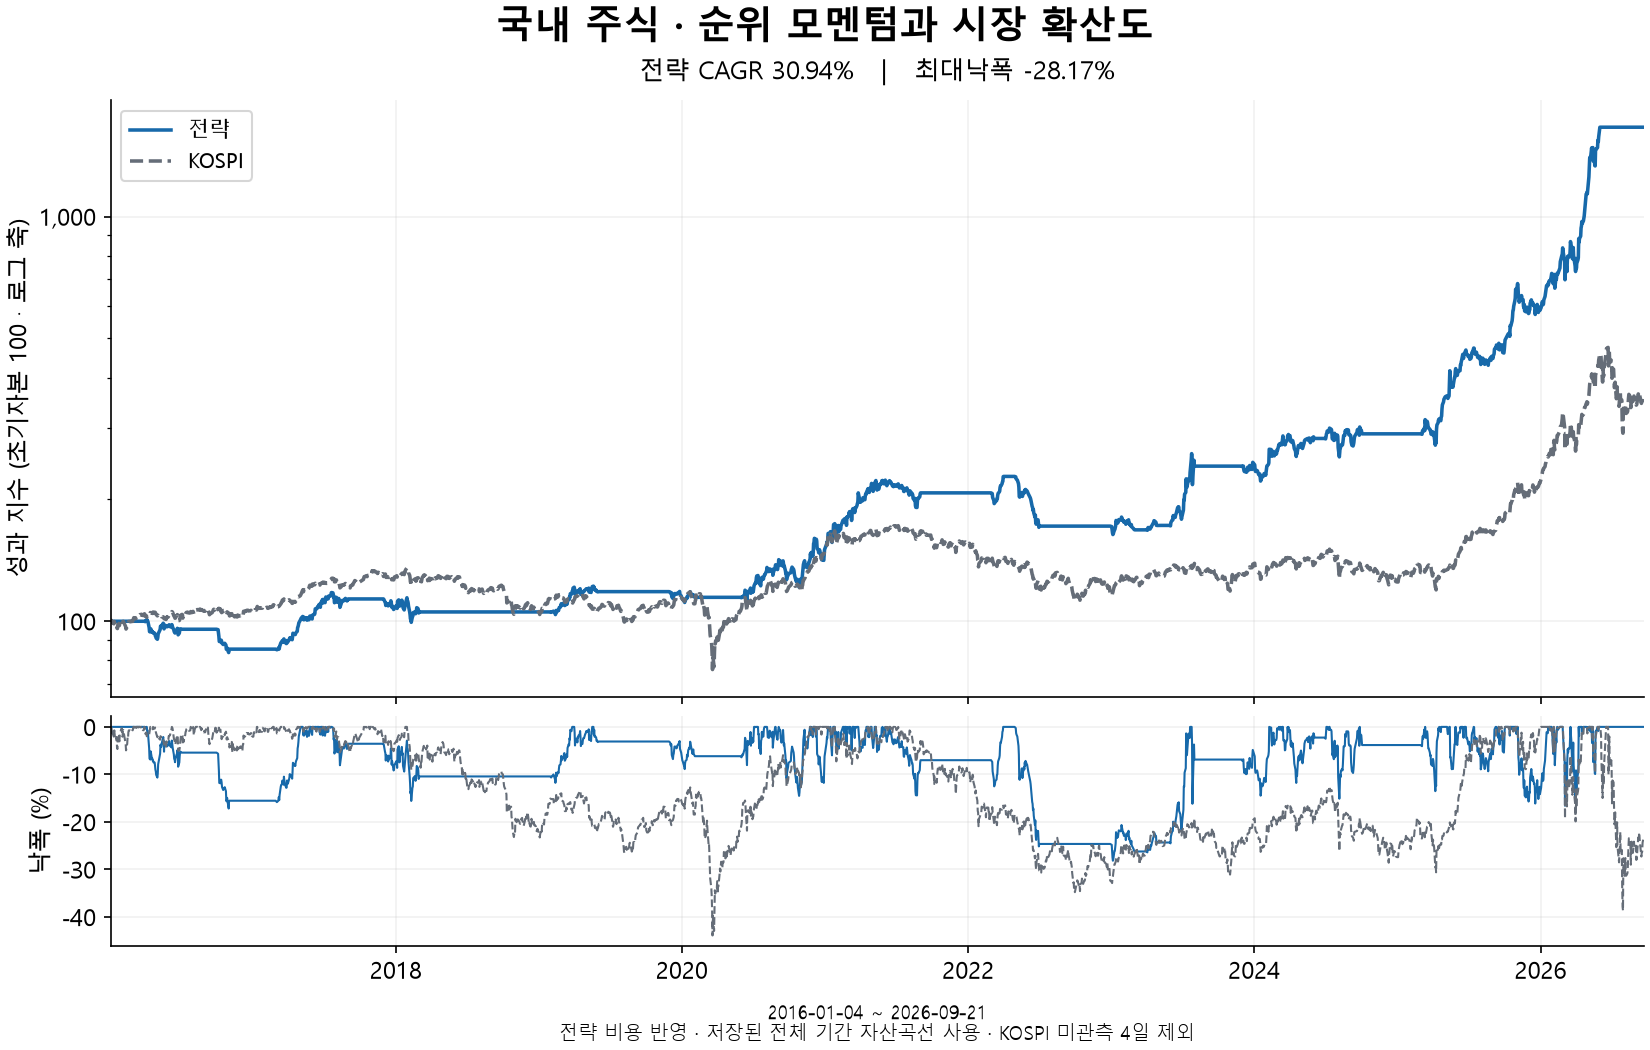
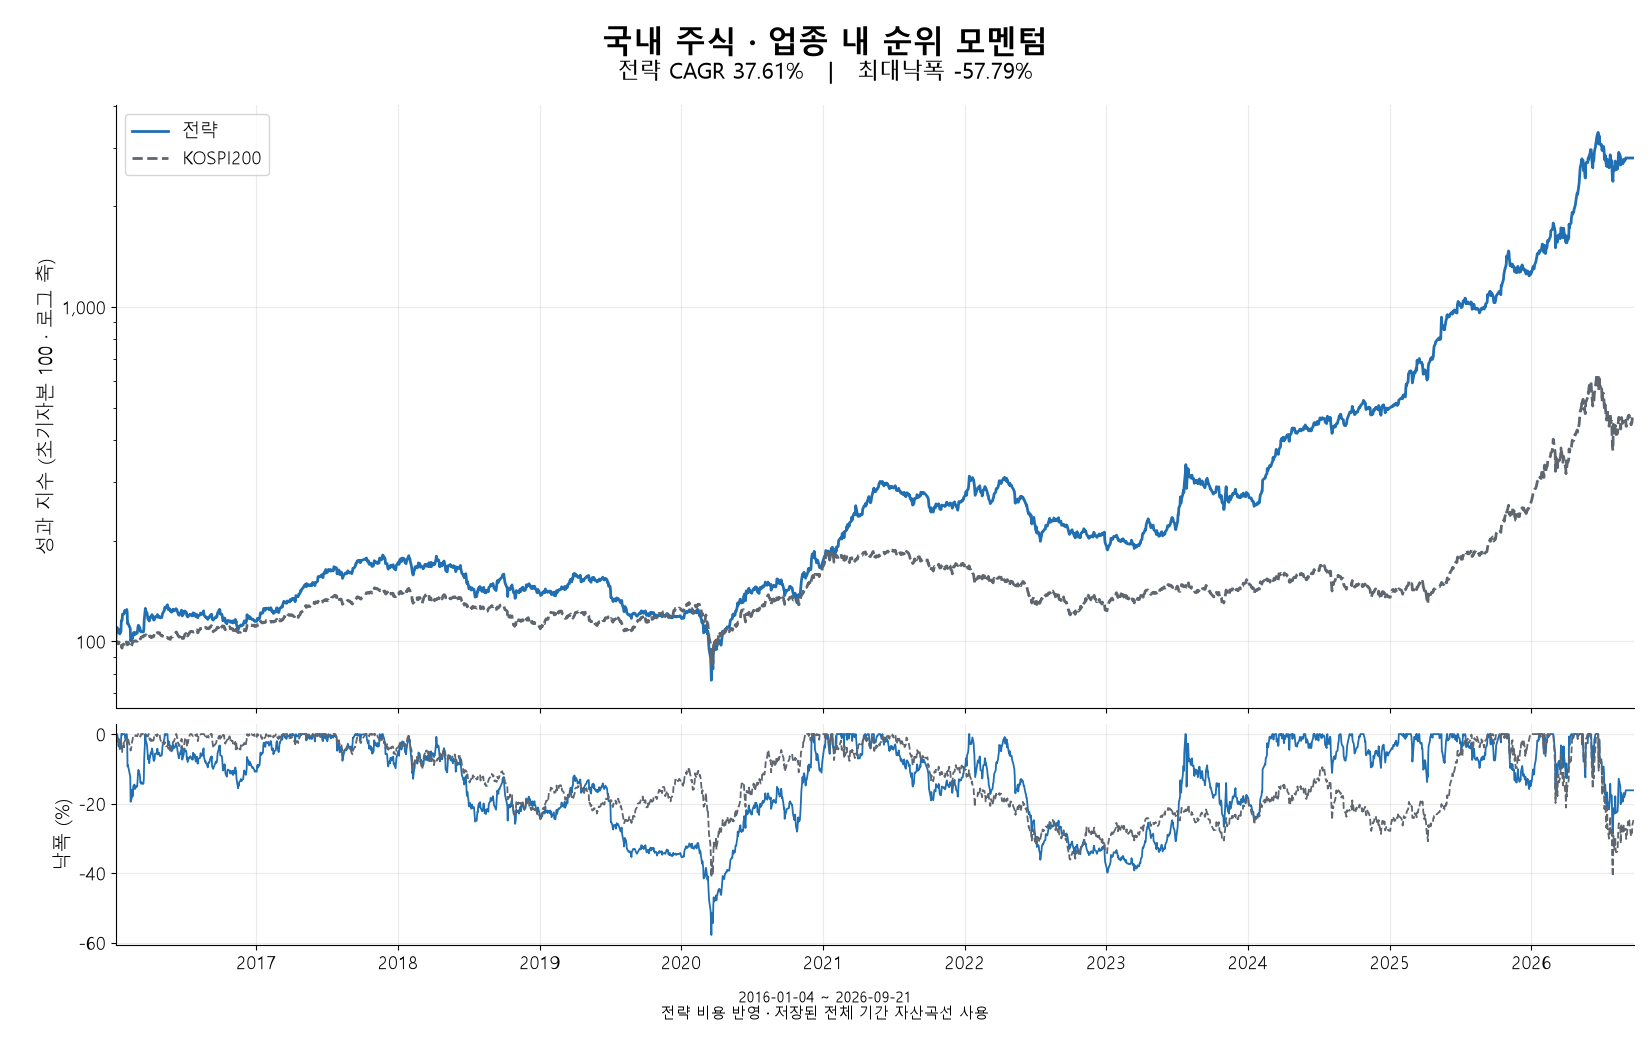
Update Korean equity industry-relative momentum results and backtest chart

diff --git a/data.js b/data.js
@@ -5,27 +5,35 @@ const PORTFOLIO = {
   {
     "id": "kr",
     "title": "국내 주식 전략",
-    "subtitle": "모멘텀·시장 확산도를 활용한 종목 선정",
+    "subtitle": "업종 내 순위 모멘텀·업종당 최대 2종목",
     "period": "2016.01.04 – 2026.09.21",
-    "benchmark": "KOSPI",
+    "benchmark": "KOSPI200",
     "image": "assets/kr_stock_case.png",
-    "overview": "KOSPI 대형주 중 상대적으로 강한 흐름을 보인 종목을 선정하고, 시장 전반의 상승 종목 비율이 낮을 때는 현금으로 전환하는 전략 실험.",
+    "overview": "KOSPI 보통주 중 전월 평균 시가총액 상위 100개를 대상으로 같은 업종 내부에서 주가 움직임의 상대 순위를 계산해 상위 5개를 선정하는 전략 실험. 업종당 최대 2개까지 편입하고 월별로 동일비중 재조정.",
     "strategy": [
       [
         "투자 대상",
-        "전월 평균 시가총액 상위 100개 KOSPI 종목"
+        "KOSPI 보통주 중 전월 평균 시가총액 상위 100개"
+      ],
+      [
+        "순위 신호",
+        "전월 말 기준 동일 업종(종목 3개 이상)에서 일별 수익률 백분위 순위를 계산, 월평균을 최근 3개월 제외 9개월 동안 합산"
+      ],
+      [
+        "사례 설정",
+        "모멘텀 12개월·최근 3개월 제외"
       ],
       [
         "종목 선정",
-        "최근 12개월에서 최근 3개월을 제외한 모멘텀 순위 상위 최대 5개"
+        "상위 5개 종목, 업종당 최대 2개"
       ],
       [
         "투자 비중",
-        "최대 5개 종목에 동일 비중, 시장 확산도 50% 이하일 때 현금"
+        "종목당 20% 동일비중, 월별 재조정"
       ],
       [
-        "조정 주기",
-        "월별"
+        "체결 제약",
+        "거래량이 없는 날 주문 연기, 상장폐지 보유분은 마지막 유효 가격으로 정산"
       ],
       [
         "거래비용 가정",
@@ -35,43 +43,51 @@ const PORTFOLIO = {
     "metrics": [
       [
         "연평균 수익률(CAGR)",
-        "30.94%",
-        "13.25%"
+        "37.61%",
+        "16.09%"
       ],
       [
         "최대낙폭(MDD)",
-        "-28.17%",
-        "-43.90%"
+        "-57.79%",
+        "-41.19%"
       ],
       [
         "샤프 비율",
-        "1.31",
-        "0.65"
+        "1.22",
+        "0.72"
       ]
     ],
     "validation": [
       [
         "후보군",
-        "모멘텀·시장 확산도 조건 16개"
+        "모멘텀 9·12·15·18개월 × 최근 제외 0·1·2·3개월 = 16개"
       ],
       [
         "SPA",
-        "p=0.0534"
+        "p=0.0246 (5,000회 재표집)"
       ],
       [
         "PBO",
-        "64.29%"
+        "19.44%"
       ],
       [
-        "Walk-Forward CAGR",
-        "10.51% (같은 평가기간 KOSPI 7.44%)"
+        "Walk-Forward (rolling)",
+        "CAGR 18.13% · 최대낙폭 -56.56%"
       ],
       [
-        "Walk-Forward 최대낙폭",
-        "-47.52%"
+        "Walk-Forward (expanding)",
+        "CAGR 21.18% · 최대낙폭 -50.31%"
+      ],
+      [
+        "Walk-Forward 벤치마크",
+        "동일 평가기간 KOSPI200 CAGR 8.52% · 최대낙폭 -41.05%"
+      ],
+      [
+        "OOS 평가기간",
+        "2018.01.04 – 2026.01.02"
       ]
     ],
-    "interpretation": "전체 기간에 선정한 고정 전략의 백테스트 수치와 기간별로 후보를 선택한 Walk-Forward 수치는 서로 다른 평가 방식. Walk-Forward의 위험 지표와 PBO 결과도 함께 확인할 필요.",
+    "interpretation": "전체 기간 고정 전략과 Walk-Forward는 후보 선택·평가 방식이 다른 수치. 전체 기간 CAGR은 KOSPI200보다 21.52%p 높았지만 최대낙폭은 16.60%p 컸음. 특정 종목에 대한 수익 기여 집중도도 함께 고려할 필요가 있음(SK하이닉스·SK스퀘어·삼성전자 순손익 45.6%). 후보군은 다른 접근법을 비교한 뒤 구성했으므로 검증 수치를 무조건적인 미래 성과의 증거로 해석할 수 없음.",
     "sourceAnchor": "3-국내-주식-사례"
   },
   {
@@ -300,7 +316,7 @@ const PORTFOLIO = {
       links:[{label:'GitHub 저장소',url:'https://github.com/Choe-Useong/quant-trading-system'},{label:'백테스트·검증 보고서',url:'#/projects/quant/reports'}],
       visuals:[
         {title:'시스템 아키텍처',description:'데이터 준비, 투자전략 계산, 성과 검증, 주문·계좌 관리 기능의 전체 구성도',src:'https://raw.githubusercontent.com/Choe-Useong/quant-trading-system/main/notes/assets/system_architecture.png',source:'https://github.com/Choe-Useong/quant-trading-system/blob/main/notes/assets/system_architecture.png',kind:'architecture',altSteps:['데이터 수집·캐시','전략 신호·선정','목표 비중 계산','검증 및 주문 관리']},
-        {title:'국내 주식 백테스트 사례',description:'2016.01~2026.09 과거 분석의 연평균 수익률 30.94%(KOSPI 13.25%). 기간을 나눠 검증한 전략의 연평균 수익률 10.51%.',src:'assets/kr_stock_case.png',source:'https://github.com/Choe-Useong/quant-trading-system/blob/main/notes/assets/kr_stock_case.png',reportId:'kr',kind:'chart',altMetrics:[['전략 CAGR','30.94%'],['KOSPI CAGR','13.25%'],['WF CAGR','10.51%']]},
+        {title:'국내 주식 백테스트 사례',description:'2016.01~2026.09 업종 내 순위 모멘텀 전략의 전체 기간 CAGR 37.61%(KOSPI200 16.09%), 최대낙폭 -57.79%. Walk-Forward CAGR은 rolling 18.13%, expanding 21.18%(동일 평가기간 KOSPI200 8.52%).',src:'assets/kr_stock_case.png',source:'https://github.com/Choe-Useong/quant-trading-system/blob/main/notes/assets/kr_stock_case.png',reportId:'kr',kind:'chart',altMetrics:[['전략 CAGR','37.61%'],['KOSPI200 CAGR','16.09%'],['WF rolling','18.13%'],['WF expanding','21.18%']]},
         {title:'미국 ETF 백테스트 사례',description:'2012.05~2026.05 전체 기간 전략 CAGR 36.16%(원화 환산 SSO 26.63%). Walk-Forward 평가 구간 CAGR 32.86%(같은 기간 원화 환산 SSO 24.94%).',src:'assets/us_etf_case.png',source:'https://github.com/Choe-Useong/quant-trading-system/blob/main/notes/assets/us_etf_case.png',reportId:'us',kind:'chart',altMetrics:[['전략 CAGR','36.16%'],['SSO CAGR','26.63%'],['WF CAGR','32.86%']]},
         {title:'BTC 현물 백테스트 사례',description:'2019.09~2026.10 과거 분석의 연평균 수익률 80.03%(BTC 보유 38.90%). 기간을 나눠 검증한 전략의 연평균 수익률 35.56%.',src:'assets/btc_spot_case.png',source:'https://github.com/Choe-Useong/quant-trading-system/blob/main/notes/assets/btc_spot_case.png',reportId:'btc',kind:'chart',altMetrics:[['전략 CAGR','80.03%'],['BTC 보유 CAGR','38.90%'],['WF CAGR','35.56%']]},
         {title:'알트코인 선물 롱·숏 백테스트 사례',description:'2020.01~2026.10, 거래대금과 최근 수익률로 구분한 9개 그룹의 롱·숏 72개 조합을 비교. 누적수익률 1위 조합의 CAGR 40.88%, 최대낙폭 -35.05%. 비교 기준 BTC 보유 CAGR 42.55%.',src:'assets/alt_futures_case_preview.png',source:'https://github.com/Choe-Useong/quant-trading-system/blob/main/notes/assets/alt_futures_case_preview.png',reportId:'futures',kind:'chart',altMetrics:[['사례 CAGR','40.88%'],['BTC 보유 CAGR','42.55%'],['최대낙폭','-35.05%']]}
